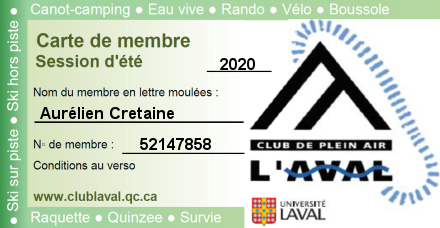
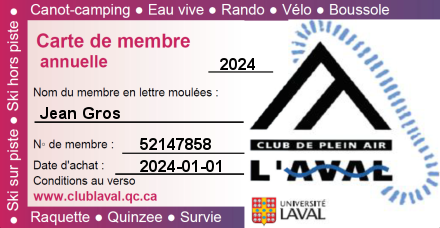
Ajout fonction carte membre

diff --git a/services/genererCarteMembre.js b/services/genererCarteMembre.js
@@ -1,23 +1,50 @@
 const fs = require('fs');
 const { createCanvas, loadImage } = require('canvas');
 
-function GenererCarteMembre() {
+function GenererCarteMembre(infoCarte) {
     const width = 440
     const height = 228
 
     const canvas = createCanvas(width, height)
     const context = canvas.getContext('2d')
+    var imagePath = './public/img/rectoCarteHiver.png'
+    var dateAchat = '';
 
-    loadImage('./public/img/rectoCarteHiver.png').then(image => {
+    switch (infoCarte.type_carte) {
+        case 'Annuel':
+            imagePath = './public/img/rectoCarteAnnuelle.png'
+            dateAchat = infoCarte.date_debut
+            break;
+        case 'Saisonnier été':
+            imagePath = './public/img/rectoCarteEte.png'
+            break;
+        case 'Saisonnier hiver':
+            imagePath = './public/img/rectoCarteHiver.png'
+            break;
+        case 'Saisonnier automne':
+            imagePath = './public/img/rectoCarteAutomne.png'
+            break;
+        case 'Animateur':
+            imagePath = './public/img/rectoCarteAnimateur.png'
+            break;
+    }
+
+    loadImage(imagePath).then(image => {
         context.drawImage(image, 0, 0, 440, 228);
 
         context.font = "bold 17px Arial";
-        context.fillText('2020', 220, 70);
-        context.fillText('Aurélien Cretaine', 40, 119);
-        context.fillText('52147858 ', 140, 150);
+        context.fillText(infoCarte.annee_debut, 220, 70);
+        context.fillText(infoCarte.nom_prenom, 40, 119);
+        context.fillText('52147858 ', 130, 150);
+
+        if (dateAchat != '') {
+            context.fillText(dateAchat, 125, 172);
+        }
 
         const buffer = canvas.toBuffer('image/png');
         fs.writeFileSync('./image.png', buffer)
+
+        return 'nomFichier';
     })
 }
 

diff --git a/db/membreDB.js b/db/membreDB.js
@@ -38,6 +38,23 @@ const getMembreByNumeroSequence = (id, callback) => {
     });
 };
 
+const getInformationCarteMembre = (idMembre, idAdhesion, callback) => {
+    db.query(`select m.nom || ' ' || m.prenom as nom_prenom,
+                     to_char(a.date_debut, 'YYYY-MM-DD') as date_debut,
+                     to_char(a.date_debut, 'YYYY') as annee_debut,
+                     to_char(a.date_fin, 'YYYY-MM-DD') as date_fin,
+                     ta.nom as type_carte
+                from membre m
+               inner join adhesion a ON m.numero_sequence = a.numero_sequence_membre and a.numero_sequence = $2
+               inner join type_adhesion ta on a.numero_sequence_type_adhesion = ta.numero_sequence
+               where m.numero_sequence = $1`, [idMembre, idAdhesion], (error, results) => {
+        if (error) {
+            return next(error);
+        }
+        callback(results.rows[0]);
+    });
+};
+
 const createMembre = (datas, callback) => {
     var donnees = [
         datas.nom.trim(),
@@ -86,9 +103,13 @@ const desactivationMembreByNumeroSequence = (id, callback) => {
     });
 };
 
+
+
+
 module.exports = {
     getMembres,
     getMembreByNumeroSequence,
+    getInformationCarteMembre,
     createMembre,
     modifierRoleMembre,
     desactivationMembreByNumeroSequence

diff --git a/public/js/membre/membre.js b/public/js/membre/membre.js
@@ -82,6 +82,10 @@ $(function(window, $) {
                 render: function(data, type, row, meta) {
                     return `<a href="/api/adhesion/` + row.numero_sequence + `" class="cl-icons supprimer-adhesion">
                                 <i class="far fa-trash-alt"></i>                   
+                            </a>
+                            &nbsp;
+                            <a href="/membre/carte/` + row.numero_sequence_membre + `/` + row.numero_sequence + `">
+                                <i class="far fa-address-card"></i>
                             </a>`;
                 }
             }, {
@@ -141,10 +145,6 @@ $(function(window, $) {
                             &nbsp;
                             <a href="/formulaire/consulter/` + data + `">
                                 <i class="fas fa-file-alt"></i>
-                            </a>
-                            &nbsp;
-                            <a href="/membre/carte/` + data + `">
-                                <i class="far fa-address-card"></i>
                             </a>
                             
                             `;

diff --git a/controller/membreController.js b/controller/membreController.js
@@ -64,12 +64,19 @@ router.get('/membre/consulter/:id', function(request, response) {
 });
 
 router.get('/membre/carte/:idM/:idAdh', function(request, response) {
-    service.GenererCarteMembre();
+    const idMembre = parseInt(request.params.idM);
+    const idAdhesion = parseInt(request.params.idAdh);
 
-    var basePath = require('path').dirname(__dirname);
-    const file = basePath + `/image.png`;
+    membreDB.getInformationCarteMembre(idMembre, idAdhesion, function(infoCarte) {
+        var nomCarteGenere = service.GenererCarteMembre(infoCarte);
 
-    response.download(file);
+        var basePath = require('path').dirname(__dirname);
+        const file = basePath + `/image.png`;
+
+        response.download(file);
+
+    });
+
 });
 
 

diff --git a/db/utilitaireDB.js b/db/utilitaireDB.js
@@ -24,7 +24,6 @@ const getCompteurs = (callback) => {
     });
 };
 
-
 module.exports = {
     getMembresAutoComplete,
     getCompteurs
